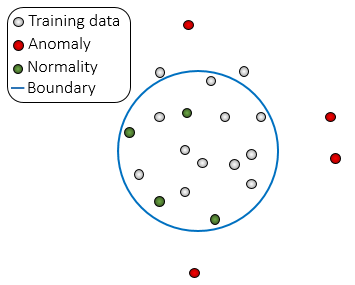
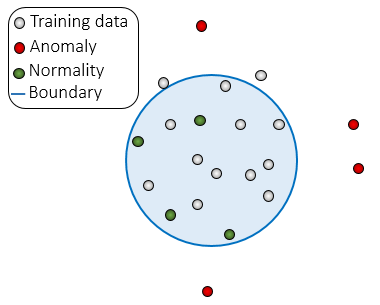
added more figures

diff --git a/Second-Article/structure/classification.tex b/Second-Article/structure/classification.tex
@@ -71,11 +71,16 @@ Where \textit{EventHitRate}(EHR) describes how many of the existing events have 
 \[EHR = \frac{DifferentEventsHit}{TotalNumberOfEvents}\]
 , and \textit{FalseCoverRate}(FCR) is the rate of which the area outside events that has been covered e.g:
 \[FCR = \frac{NonEventAreaCovered}{TotalNonEventArea}\]
-The scoring function is the harmonic mean of EHR and FCR which is a kind of averaging of the two rates.\todo{Det er lidt
-``frækt'' at sige at ``det er sådan ca. det samme som det her'' - det bliver læseren ikke klogere af}
 Machines which have a low EHR and/or high FCR would make the function approach zero, while having a high EHR and low FCR will make the function approach 1, which is the ideal result.
 Meaning this function rewards hitting as many different events higher than hitting the same multiple times, while also considering the rate of FCR.
 
-Since the Nu parameter indirectly dictates how much of the training data that should be inside the boundary of the ``normal state'', an examination of the Nu parameter impact on the results is conducted.
+In other words the Nu value dictates the aggressiveness of the classifier, e.g how big the normal state is given its training data. A high value results in an aggressive classifier and a low values result in a conservative classifier, as illustrated in Figure~\ref{[FIGURE] nuvalues}.
+Different level of aggressions will be examined to establish its impact.
 This is done using a line search, keeping all the parameters constant, except the in the following range:
 \[Nu = \{0.01, 0.02,.., 1\}\], and analyzing the difference in the result. 
+\begin{figure}
+    \centering
+  \includegraphics[width=0.75\columnwidth]{graphics/nuvalues.png}
+    \caption{The figure shows how the boundary changes at different Nu values}
+    \label{[FIGURE] nuvalues}
+\end{figure}
